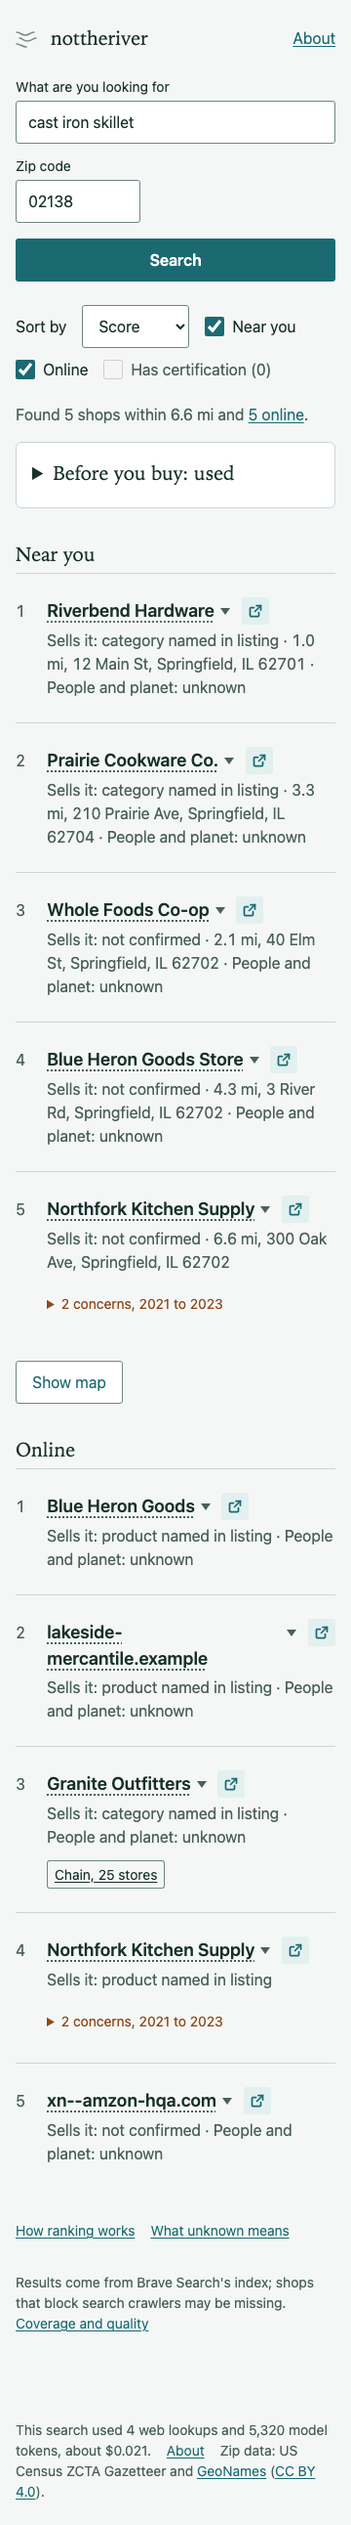
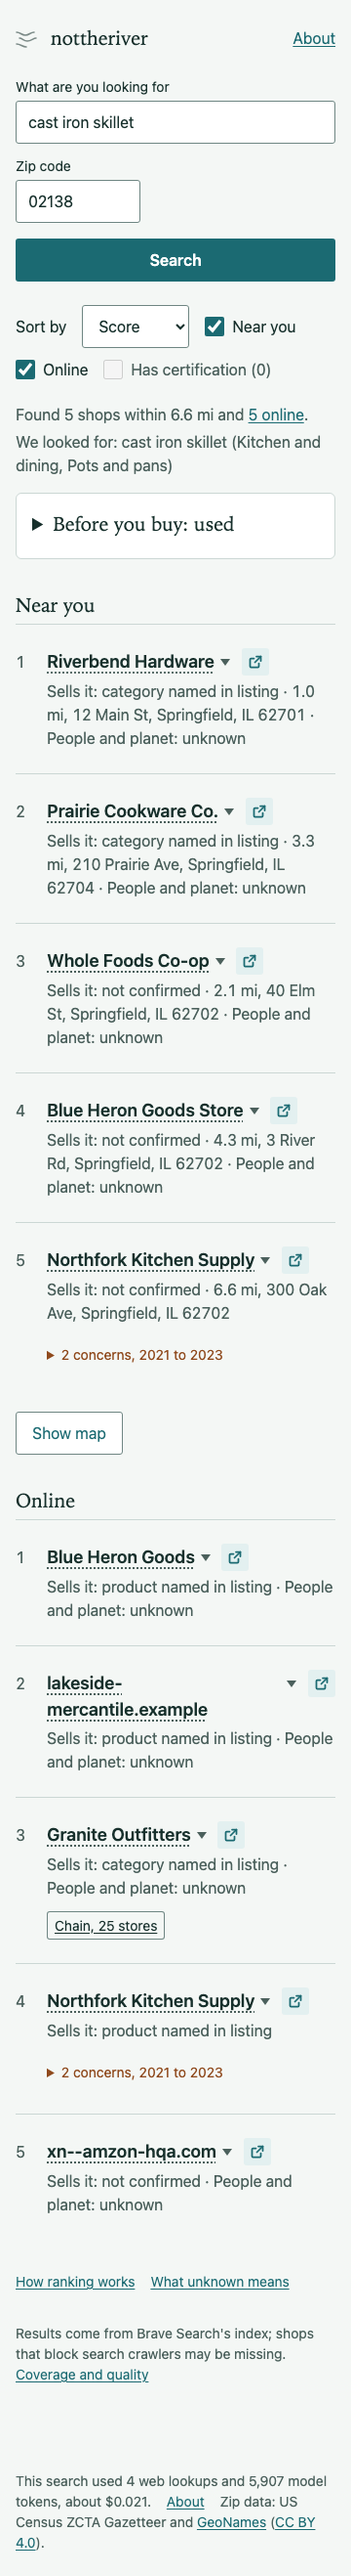
test(proxy): pin the category request body; refresh docs and screenshots
The category test now compares the whole request with the one the third
run tested. Cost doc, deploy skill and the list plan name the category
call. The three page screenshots are retaken with the new results line.
The A/B report states what its grade figures and wording finding rest on.

diff --git a/proxy/test/category.test.ts b/proxy/test/category.test.ts
@@ -106,6 +106,13 @@ describe('pickCategory', () => {
     expect(llm.usage.map((u) => u.call)).toEqual(['category']);
   });
 
+  // Models, provider settings, strict mode, schema, token limit and temperature, not only the prompt.
+  it('sends the request body the third run tested, field for field', async () => {
+    const { fetch, llm } = client();
+    await pickCategory(raw3.prompts.category.example_input, llm, undefined);
+    expect(JSON.parse(fetch.calls[0]!.body!)).toEqual(raw3.request.category_body_for_example);
+  });
+
   it.each([
     ['an upstream error', () => reply({}, 500)],
     ['a reply that fails the schema twice', () => reply({ general: 'kitchen' })],

diff --git a/docs/evidence/category-ab/README.md b/docs/evidence/category-ab/README.md
@@ -42,7 +42,7 @@ The hand pick is used, not the live category call, so that the test is about the
 
 Run on commit d6cf96a at 7:52 AM Pacific. All 24 searches returned. Figures: `results.json` (from `score-ab.ts`); raw map replies and call counts: `runs/calls.json`; responses: `runs/<arm>-r<round>/responses/`.
 
-**The list wording shows no gain on these six searches.** By the reading rule it is not "no worse": its map searches returned one baseline shop fewer in both rounds. The page showed the same number of baseline shops in both arms.
+**The list wording finds no more baseline shops than the model's wording on these six searches.** The run does not test the other claim for IDEA-1, that fixed wording gives the same searches every time. By the reading rule it is not "no worse": its map searches returned one baseline shop fewer in both rounds. The page showed the same number of baseline shops in both arms.
 
 | Measure | `model` round 1 | `model` round 2 | `list` round 1 | `list` round 2 |
 |---|---|---|---|---|
@@ -51,16 +51,16 @@ Run on commit d6cf96a at 7:52 AM Pacific. All 24 searches returned. Figures: `re
 | M3, nearby shops shown | 48 | 49 | 48 | 45 |
 | M3, graded good | 18 | 18 | 15 | 14 |
 | M3, graded bad | 14 | 16 | 12 | 12 |
-| M3, never graded | 16 | 15 | 21 | 19 |
+| M3, no usable grade (never graded, or graded "unknown") | 16 | 15 | 21 | 19 |
 
 - **M1 and M2.** The one-shop gap on M1 is Barnes & Noble for jigsaw puzzle: "hobby store" returned it and "game store" did not. On the page the arms differ by one shop each way in that search (the `model` arm shows Barnes & Noble, the `list` arm shows Pinwheels and Play Toys). The other five searches give the same baseline shops in both arms.
-- **M3.** Among graded shops the share that is good is about the same: 18 of 32 and 18 of 34 for `model`, 15 of 27 and 14 of 26 for `list`. The `list` arm shows more shops that no run has graded.
+- **M3.** Among graded shops the share that is good is about the same: 18 of 32 and 18 of 34 for `model`, 15 of 27 and 14 of 26 for `list`. The `list` arm shows more shops with no usable grade. Control for the grade join: the same join on the saved run of these six searches (`docs/evidence/quality/eval20-store-types`) gives 28 good, 13 bad and 10 graded "unknown" of 51 shown shops, with none unmatched.
 - **M4, noise.** M1 and M2 did not change between rounds in either arm. Shown nearby shops in common between the two rounds: 47 of 50 (`model`) and 44 of 49 (`list`). Between the arms: 33 of 63 in round 1 and 31 of 63 in round 2. The list wording changes about half of the shops shown and does not change how many baseline shops are found.
 - **M5, wording.** The pairs differ in all six searches, by one phrase each: every search has one phrase that both arms sent.
 
 **Other findings.**
 
-- **The model's wording had already moved.** The live reading differs from the wording saved on 2026-09-29 (`docs/evidence/quality/eval20-store-types`) in 2 of the 6 searches: wool socks ("outdoor gear store" became "clothing store") and LED light bulbs ("electrical supply store" became "hardware store"). The saved run shows 9 of these 29 baseline shops; both arms here show 5. The loss is in wool socks: 4 shown then, 0 now in both arms.
+- **The model's wording had already moved.** The live reading differs from the wording saved on 2026-09-29 (`docs/evidence/quality/eval20-store-types`) in 2 of the 6 searches: wool socks ("outdoor gear store" became "clothing store") and LED light bulbs ("electrical supply store" became "hardware store"). The saved run shows 9 of these 29 baseline shops; both arms here show 5. The loss is in wool socks: 4 shown then, 0 now in both arms. `proxy/prompts/normalize.ts` and the model list did not change between the two dates (`git log`), so the model reworded the same prompt.
 - **Wool socks is a wrong-category case for the list (FAIL-1 of the plan).** Its four found baseline shops are outdoor shops. The hand pick is `clothing`, whose pair ("clothing store", "shoe store") returned none of the five. The second defensible pick, `outdoor`, was not run.
 - **Cordless drill and wool blanket found no baseline shop in any arm or round**, here and in the saved run.
 - **The live category pick matched the hand pick at both levels in all six searches.** This is the first run of the category call inside the pipeline. The call ran once per product (569 prompt tokens, $0.000444 reported for wool socks) and later searches read the saved reply.
@@ -69,7 +69,7 @@ Run on commit d6cf96a at 7:52 AM Pacific. All 24 searches returned. Figures: `re
 
 **Limits.**
 
-- Six searches, one zip each, 29 baseline shops. The baseline was collected for the 2026-09 runs, and 15 to 21 shown shops per arm and round have no grade.
+- Six searches, one zip each, 29 baseline shops. The baseline was collected for the 2026-09 runs, and 15 to 21 shown shops per arm and round have no usable grade.
 - Each pair shares one phrase, so the test compares six single phrases, not twelve.
 - One reading per search. The test does not measure the benefit IDEA-1 claims from fixed wording: the model's own wording changed for 2 of 6 products since September, and the list's would not have.
 - The `list` arm used the hand pick. A wrong live pick would change its pair.

diff --git a/docs/costs.md b/docs/costs.md
@@ -25,9 +25,11 @@ Measured: the 20 graded searches run once on 2026-10-01, locally, through the pi
 |---|---|---|---|
 | Brave | 1 to 3 web searches plus 0 to 2 place searches (the client also refuses any call past 6) | 4 in every search, so $0.020 (price-list estimate, not billed) | 5 × $0.005 = $0.025 |
 | Normalize (model reads the product) | 1, skipped when the product's reading is cached (30 days); retried once on invalid output | Made in 8 of 20 searches (the run shared one cache between two arms, so this is not the live hit rate); 348 to 351 prompt tokens, 63 to 79 completion tokens, $0.00032 to $0.00034 a call | Prompt 1,578 characters at the 120-character product cap; completion capped at 400 tokens |
+| Category (model picks from the fixed list), added 2026-11-19 | 1, started beside normalize; skipped when the product's pick is cached (30 days); retried once on invalid output | Not in the 20 searches of this table. In the third category-pick run (`docs/evidence/category-picks/README.md`): 569 prompt tokens, a median of $0.000444 a call with no cached tokens (OpenRouter's reported cost) | Completion capped at 400 tokens; not added to the bounds in this table |
 | Enrich (model judges each candidate) | 2, one for online and one for local candidates; each retried once | Per call: prompt median 1,678 tokens (max 2,900), completion median 278 (max 382). Per search, both calls: prompt median 3,668 (max 4,197), completion median 532 (max 635); $0.0010 to $0.0025 a call | Prompts 21,862 characters (24 online candidates) and 18,504 (20 local), each candidate at the title and snippet caps with an assumed 200-character URL and 40-character domain (neither is capped, so longer ones raise this); completion capped at 3,000 tokens a call |
 | Model use, whole search | | $0.0024 to $0.0040, median $0.0034 | Prompt at most (1,578 + 21,862 + 18,504) × 2 attempts = 83,888 tokens, taking the loose bound of one token per character; completion at most (400 + 3,000 × 2) × 2 = 12,800 tokens. At the $0.75 and $1.00 endpoint: $0.063 + $0.013 ≈ $0.076; at the cheapest: $0.0076 + $0.0044 ≈ $0.012 |
 
+- **Since 2026-11-19** a search whose product has no cached pick also makes the category call, about $0.0004 more. The figures below were measured before it.
 - **Typical search:** about $0.023: Brave at list price ($0.020 for 4 calls, an estimate) plus measured model use ($0.0034 median). Model use was $0.0032 median in the 12 searches whose product reading was cached and $0.0036 in the 8 that called normalize.
 - **Upper bound:** about $0.10 per search ($0.025 Brave + $0.076 model use at the endpoint the Worker was routed to); about $0.037 if every call went to the cheapest endpoint.
 - **Free credit:** $5 of Brave credit a month covers 1,000 requests, about 250 searches at the measured 4 calls each.

diff --git a/.claude/skills/deploy/SKILL.md b/.claude/skills/deploy/SKILL.md
@@ -16,7 +16,7 @@ Before any push to `main`: `npx vitest run`, `npm run lint`, `npm run typecheck`
 Run `infra/deploy.sh` after pushing any commit that changes:
 
 - `proxy/**` (code, ranking, schemas, prompts, `wrangler.jsonc`)
-- a `data/*.json` file the Worker imports (blocklist, certifications, negatives, negative sources)
+- a `data/*.json` file the Worker imports (blocklist, certifications, negatives, negative sources, chains, the category list `categories.draft.json`)
 - `infra/*.tf`
 
 When unsure, run it: it compares the committed build with the last deployed state and does nothing if they match (a Worker changed by hand in Cloudflare may not show). `infra/deploy.sh --check` only reports whether a deploy is needed; any other argument is refused.

diff --git a/docs/plans/category-list.md b/docs/plans/category-list.md
@@ -131,7 +131,7 @@ The 16 lines of the CATEGORIES block of the prompt draft above follow that last 
 
 ## The list
 
-`data/categories.draft.json` holds 16 general and 70 specific categories, two reserved values, and FLD-1 to FLD-11 for each. Nothing reads the file.
+`data/categories.draft.json` holds 16 general and 70 specific categories, two reserved values, and FLD-1 to FLD-11 for each. Since 2026-11-19 the Worker reads its ids and display names (`proxy/src/category.ts`); nothing reads the other fields.
 
 | General id | Display name | Store types (default) | Specific | Eval tag |
 |---|---|---|---|---|
